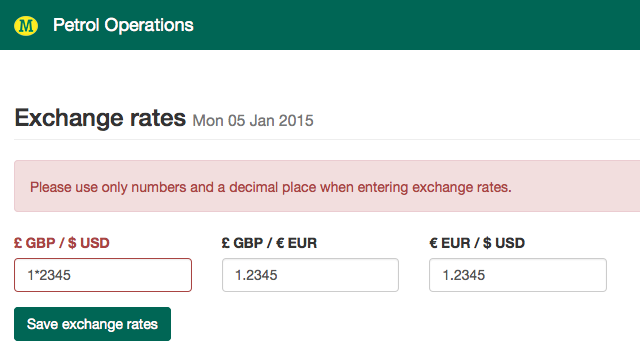
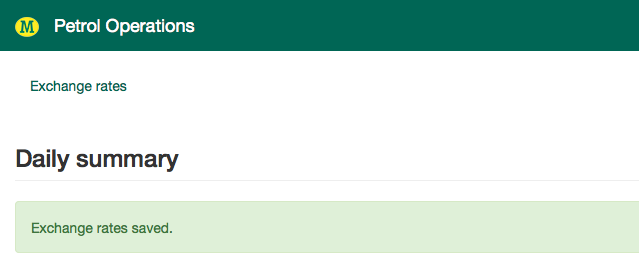
fx edit

diff --git a/market-daily-historic.html b/market-daily-historic.html
@@ -27,10 +27,6 @@
 				<img alt="Morrisons logo" src="morrisonslogo.png" class="navbar-logo"> 
 				Petrol Operations</a>
 	        </div>
-
-				<ul class="nav navbar-nav navbar-left">
-					<li class="active"><a href="market-daily.html">Market data</a></li>
-					</ul>
 				  <ul class="nav navbar-nav navbar-right">
 					<li><a href="">Sign out</a></li>
 					</ul>	
@@ -41,8 +37,9 @@
 			<div class="row">
 				<div class="col-xs-12">
 					<ul class="nav nav-pills" role="tablist">
-						<li><a href="market-daily.html">Daily summary</a></li>
-						<li><a href="market-weekly.html">Weekly summary</a></li>
+						<li><a href="fx-daily.html">Exchange rates</a></li>
+						<li><a href="prices-daily.html">Fuel prices</a></li>
+						<li class="active"><a href="">Daily summary</a></li>
 					</ul>
 				</div>
 			</div>	
@@ -50,35 +47,27 @@
 		<div class="container-fluid">
 			<div class="row">
 				<div class="col-xs-12">
-					<h3 class="page-header">Daily summary for week ending Sun 04 Jan 2015</h3>					
+					<h3 class="page-header">Daily summary <small>week ending 11/01/15</small></h3>
 					<table class="table table-hover table-condensed">
-					  <thead><tr><th></th><th>MON 05</th><th>TUE 06</th><th>WED 07</th><th>THU 08</th><th>FRI 09</th><th>Week</th></tr></thead>
+					  <thead><tr><th></th><th>MON 05</th><th>TUE 06</th><th>WED 07</th><th>THU 08</th><th>FRI 09</th><th>11/01/15</th></tr></thead>
 						<tbody>
-							<tr><th>&dollar;/&pound;</th><td>0.61919</td><td>0.61919</td><td>0.61919</td><td>0.61919</td><td>0.61919</td><td>0.61919</td></tr>
-							<tr><th>&euro;/&dollar;</th><td>1.27635</td><td>1.27635</td><td>1.27635</td><td>1.27635</td><td>1.27635</td><td>1.27635</td></tr>
-							<tr><th>&euro;/&pound;</th><td>0.79030</td><td>0.79030</td><td>0.79030</td><td>0.79030</td><td>0.79030</td><td>0.79030</td></tr>
+							<tr><th>&pound; GBP / &dollar; USD</th><td>1.2345</td><td>1.2345</td><td>1.2345</td><td>1.2345</td><td>1.2345</td><td>1.2345</td></tr>
+							<tr><th>&pound; GBP / &euro; EUR</th><td>1.2345</td><td>1.2345</td><td>1.2345</td><td>1.2345</td><td>1.2345</td><td>1.2345</td></tr>
+							<tr><th>&euro; EUR / &dollar; USD</th><td>1.2345</td><td>1.2345</td><td>1.2345</td><td>1.2345</td><td>1.2345</td><td>1.2345</td></tr>
 
 							<tr><td></td><td><button class="btn btn-default btn-sm">Edit</button></td><td><button class="btn btn-default btn-sm">Edit</button></td><td><button class="btn btn-default btn-sm">Edit</button></td><td><button class="btn btn-default btn-sm">Edit</button></td><td><button class="btn btn-default btn-sm">Edit</button></td><td><button class="btn btn-default btn-sm">Edit</button></td></tr>
 
-							<tr><th rowspan="3">Prem Unl</th><td>100.23</td><td>100.23</td><td>100.23</td><td>100.23</td><td>100.23</td><td>100.23</td></tr>
-							<tr class="text-primary"><td>100.23</td><td>100.23</td><td>100.23</td><td>100.23</td><td>100.23</td><td>100.23</td></tr>
-							<tr><td>100.23</td><td>100.23</td><td>100.23</td><td>100.23</td><td>100.23</td><td>100.23</td></tr>						
-							<tr><th rowspan="3">ULSD</th><td>100.23</td><td>100.23</td><td>100.23</td><td>100.23</td><td>100.23</td><td>100.23</td></tr>
-							<tr class="text-primary"><td>100.23</td><td>100.23</td><td>100.23</td><td>100.23</td><td>100.23</td><td>100.23</td></tr>
-							<tr><td>100.23</td><td>100.23</td><td>100.23</td><td>100.23</td><td>100.23</td><td>100.23</td></tr>						
-							<tr><th rowspan="3">RED Bio-Diesel</th><td>100.23</td><td>100.23</td><td>100.23</td><td>100.23</td><td>100.23</td><td>100.23</td></tr>
-							<tr class="text-primary"><td>100.23</td><td>100.23</td><td>100.23</td><td>100.23</td><td>100.23</td><td>100.23</td></tr>
-							<tr><td>100.23</td><td>100.23</td><td>100.23</td><td>100.23</td><td>100.23</td><td>100.23</td></tr>
-							<tr><th rowspan="3">Bio-Diesel</th><td>100.23</td><td>100.23</td><td>100.23</td><td>100.23</td><td>100.23</td><td>100.23</td></tr>
-							<tr class="text-primary"><td>100.23</td><td>100.23</td><td>100.23</td><td>100.23</td><td>100.23</td><td>100.23</td></tr>
-							<tr><td>100.23</td><td>100.23</td><td>100.23</td><td>100.23</td><td>100.23</td><td>100.23</td></tr>							
-							<tr><th rowspan="3">T2 (Ethylene)</th><td>100.23</td><td>100.23</td><td>100.23</td><td>100.23</td><td>100.23</td><td>100.23</td></tr>
-							<tr class="text-primary"><td>100.23</td><td>100.23</td><td>100.23</td><td>100.23</td><td>100.23</td><td>100.23</td></tr>
-							<tr><td>100.23</td><td>100.23</td><td>100.23</td><td>100.23</td><td>100.23</td><td>100.23</td></tr>							
+							<tr><th>Unleaded</th><td>100.23</td><td class="text-danger">100.23</td><td>100.23</td><td>100.23</td><td>100.23</td><td>100.23</td></tr>
+							<tr><th>Diesel</th><td>100.23</td><td class="text-danger">100.23</td><td>100.23</td><td>100.23</td><td>100.23</td><td>100.23</td></tr>
+							<tr><th>Ethanol</th><td>100.23</td><td class="text-danger">100.23</td><td>100.23</td><td>100.23</td><td>100.23</td><td>100.23</td></tr>
+							<tr><th>Red bio-diesel</th><td>100.23</td><td class="text-danger">100.23</td><td>100.23</td><td>100.23</td><td>100.23</td><td>100.23</td></tr>
+							<tr><th>Bio-diesel</th><td>100.23</td><td class="text-danger">100.23</td><td>100.23</td><td>100.23</td><td>100.23</td><td>100.23</td></tr>
+							<tr><th>LPG</th><td>100.23</td><td class="text-danger">100.23</td><td>100.23</td><td>100.23</td><td>100.23</td><td>100.23</td></tr>
+							<tr><th>Med unleaded</th><td>100.23</td><td class="text-danger">100.23</td><td>100.23</td><td>100.23</td><td>100.23</td><td>100.23</td></tr>
+							<tr><th>Med diesel</th><td>100.23</td><td class="text-danger">100.23</td><td>100.23</td><td>100.23</td><td>100.23</td><td>100.23</td></tr>
 							<tr><td></td><td><button class="btn btn-default btn-sm">Edit</button></td><td><button class="btn btn-default btn-sm">Edit</button></td><td><button class="btn btn-default btn-sm">Edit</button></td><td><button class="btn btn-default btn-sm">Edit</button></td><td><button class="btn btn-default btn-sm">Edit</button></td><td><button class="btn btn-default btn-sm">Edit</button></td></tr>
 						</tbody>
-					</table>
-					</table>
+					</table>					
 				</div>
 			</div>	
 		</div>

diff --git a/market-daily-fx-edit.html b/market-daily-fx-edit.html
@@ -33,8 +33,9 @@
 			<div class="row">
 				<div class="col-xs-12">
 					<ul class="nav nav-pills">
-						<li><a href="fx-daily.html">Exchange rates</a></li>
-						<li><a href="market-daily-fx-edit.html">Daily summary</a></li>						
+						<li><a href="fx-daily.html">Exchange rates</a></li>	
+						<li class="active"><a href="market-daily-fx-edit.html">Daily summary</a></li>					
+										
 					</ul>
 				</div>
 			</div>	
@@ -42,27 +43,26 @@
 		<div class="container-fluid">
 			<div class="row">
 				<div class="col-xs-12 col-md-12 col-lg-12">
-					<h3 class="page-header">Exchange rates <small>Mon 05 Jan 2015</small></h3>
-					<form role="form">
-						<div class="row">
-						  <div class="form-group form-group-sm col-xs-4 col-sm-2">
-							<label class="control-label">&pound; GBP / &dollar; USD</label>
-						    <input type="text" class="form-control" value="1.2345" maxlength="6">				
-						  </div>
-						  <div class="form-group form-group-sm col-xs-4 col-sm-2">
-							<label class="control-label">&pound; GBP / &euro; EUR</label>
-						    <input type="text" class="form-control" value="1.2345">					
-						  </div>
-						  <div class="form-group form-group-sm col-xs-4 col-sm-2">
-							<label class="control-label">&euro; EUR / &dollar; USD</label>
-						    <input type="text" class="form-control" value="1.2345" maxlength="6">				
-						  </div>
-					  </div>
-					  <a class="btn btn-primary" href="market-daily-fx-added.html">Save exchange rates</a>
-					</form>													
+					<h3 class="page-header">Daily summary <small>week ending 11/01/15</small></h3>
+					<table class="table table-hover table-condensed">
+					  <thead><tr><th></th><th>MON 05</th><th>TUE 06</th><th>WED 07</th><th>THU 08</th><th>FRI 09</th><th>11/01/15</th></tr></thead>
+						<tbody>
+							<tr><th>&pound; GBP / &dollar; USD</th><td>1.2345</td><td>&mdash;</td><td>&mdash;</td><td>&mdash;</td><td>&mdash;</td><td>&mdash;</td></tr>
+							<tr><th>&pound; GBP / &euro; EUR</th><td>1.2345</td><td>&mdash;</td><td>&mdash;</td><td>&mdash;</td><td>&mdash;</td><td>&mdash;</td></tr>
+							<tr><th>&euro; EUR / &dollar; USD</th><td>1.2345</td><td>&mdash;</td><td>&mdash;</td><td>&mdash;</td><td>&mdash;</td><td>&mdash;</td></tr>
+							<tr><td></td><td><a href="fx-daily-added.html"class="btn btn-default btn-sm">Edit</a></td><td>&mdash;</td><td>&mdash;</td><td>&mdash;</td><td>&mdash;</td><td>&mdash;</td></tr>
+						</tbody>
+					</table>
 				</div>
 			</div>	
 		</div>
-				
+
+
+    <!-- Bootstrap core JavaScript
+    ================================================== -->
+    <!-- Placed at the end of the document so the pages load faster -->
+    <script src="https://ajax.googleapis.com/ajax/libs/jquery/1.11.1/jquery.min.js"></script>
+    <script src="bootstrap-3.2.0-dist/js/bootstrap.min.js"></script>
+    <script src="assets/js/docs.min.js"></script>
   </body>
 </html>

diff --git a/market-weekly-buttons.html b/market-weekly-buttons.html
@@ -53,7 +53,11 @@
 					<h3 class="page-header">Weekly summary</h3>
 					<div class="table-responsive">
 					<table class="table table-hover table-condensed">
-					  <thead><tr><th></th><th><a href="" class="btn btn-default"><span class="glyphicon glyphicon-chevron-left"></span></a></th><th>16/11/14</th><th>23/11/14</th><th>30/11/14</th><th>14/12/14</th><th>14/12/14</th><th>21/12/14</th><th>28/12/14</th><th>04/01/15</th><th><a href="" class="btn btn-default btn-sm"><span class="glyphicon glyphicon-chevron-right"></span></a></th></tr>
+						<colgroup>
+						<col>
+						<col span="10">
+						</colgroup>
+					  <thead><tr><th class="col-xs-2"></th><th><a href="" class="btn btn-default"><span class="glyphicon glyphicon-chevron-left"></span></a></th><th><a href="" class="btn btn-default"><strong>16/11/14</strong></a></th><th><a href="" class="btn btn-default"><strong>23/11/14</strong></a></th><th><a href="" class="btn btn-default"><strong>30/11/14</strong></a></th><th><a href="" class="btn btn-default"><strong>14/12/14</strong></a></th><th><a href="" class="btn btn-default"><strong>14/12/14</strong></a></th><th><a href="" class="btn btn-default"><strong>21/12/14</strong></a></th><th><a href="" class="btn btn-default"><strong>28/12/14</strong></a></th><th><a href="" class="btn btn-default"><strong>04/01/15</strong></a></th><th><a href="" class="btn btn-default"><span class="glyphicon glyphicon-chevron-right"></span></a></th></tr>
 						</thead>
 						<tbody>
 							<tr><th>&pound; GBP / &dollar; USD</th><td></td><td>1.2345</td><td>1.2345</td><td>1.2345</td><td>1.2345</td><td>1.2345</td><td>1.2345</td><td>1.2345</td><td>1.2345</td><td></td></tr>
@@ -67,7 +71,6 @@
 							<tr><th>LPG</th><td></td><td>100.23</td><td class="text-danger">100.23</td><td>100.23</td><td>100.23</td><td>100.23</td><td>100.23</td><td>100.23</td><td>100.23</td><td></td></tr>
 							<tr><th>Med unleaded</th><td></td><td>100.23</td><td class="text-danger">100.23</td><td>100.23</td><td>100.23</td><td>100.23</td><td>100.23</td><td>100.23</td><td>100.23</td><td></td></tr>
 							<tr><th>Med diesel</th><td></td><td>100.23</td><td class="text-danger">100.23</td><td>100.23</td><td>100.23</td><td>100.23</td><td>100.23</td><td>100.23</td><td>100.23</td><td></td></tr>							
-							<tr><td></td><td></td><td><button class="btn btn-default btn-sm">View</button></td><td><button class="btn btn-default btn-sm">View</button></td><td><button class="btn btn-default btn-sm">View</button></td><td><button class="btn btn-default btn-sm">View</button></td><td><button class="btn btn-default btn-sm">View</button></td><td><button class="btn btn-default btn-sm">View</button></td><td><button class="btn btn-default btn-sm">View</button></td><td><button class="btn btn-default btn-sm">View</button></td><td></td></tr>
 						</tbody>
 					</table>	
 					</div>				

diff --git a/market-weekly-links.html b/market-weekly-links.html
@@ -53,7 +53,11 @@
 					<h3 class="page-header">Weekly summary</h3>
 					<div class="table-responsive">
 					<table class="table table-hover table-condensed">
-					  <thead><tr><th></th><th><a href="" class="btn btn-default"><span class="glyphicon glyphicon-chevron-left"></span></a></th><th>16/11/14</th><th>23/11/14</th><th>30/11/14</th><th>14/12/14</th><th>14/12/14</th><th>21/12/14</th><th>28/12/14</th><th>04/01/15</th><th><a href="" class="btn btn-default btn-sm"><span class="glyphicon glyphicon-chevron-right"></span></a></th></tr>
+						<colgroup>
+						<col>
+						<col span="10">
+						</colgroup>
+					  <thead><tr><th class="col-xs-2"></th><th><a href="" class="btn btn-default"><span class="glyphicon glyphicon-chevron-left"></span></a></th><th><a href="">16/11/14</a></th><th><a href="">23/11/14</a></th><th><a href="">30/11/14</a></th><th><a href="">14/12/14</a></th><th><a href="">14/12/14</a></th><th><a href="">21/12/14</a></th><th><a href="">28/12/14</a></th><th><a href="">04/01/15</a></th><th><a href="" class="btn btn-default"><span class="glyphicon glyphicon-chevron-right"></span></a></th></tr>
 						</thead>
 						<tbody>
 							<tr><th>&pound; GBP / &dollar; USD</th><td></td><td>1.2345</td><td>1.2345</td><td>1.2345</td><td>1.2345</td><td>1.2345</td><td>1.2345</td><td>1.2345</td><td>1.2345</td><td></td></tr>
@@ -67,7 +71,6 @@
 							<tr><th>LPG</th><td></td><td>100.23</td><td class="text-danger">100.23</td><td>100.23</td><td>100.23</td><td>100.23</td><td>100.23</td><td>100.23</td><td>100.23</td><td></td></tr>
 							<tr><th>Med unleaded</th><td></td><td>100.23</td><td class="text-danger">100.23</td><td>100.23</td><td>100.23</td><td>100.23</td><td>100.23</td><td>100.23</td><td>100.23</td><td></td></tr>
 							<tr><th>Med diesel</th><td></td><td>100.23</td><td class="text-danger">100.23</td><td>100.23</td><td>100.23</td><td>100.23</td><td>100.23</td><td>100.23</td><td>100.23</td><td></td></tr>							
-							<tr><td></td><td></td><td><button class="btn btn-default btn-sm">View</button></td><td><button class="btn btn-default btn-sm">View</button></td><td><button class="btn btn-default btn-sm">View</button></td><td><button class="btn btn-default btn-sm">View</button></td><td><button class="btn btn-default btn-sm">View</button></td><td><button class="btn btn-default btn-sm">View</button></td><td><button class="btn btn-default btn-sm">View</button></td><td><button class="btn btn-default btn-sm">View</button></td><td></td></tr>
 						</tbody>
 					</table>	
 					</div>				

diff --git a/market-home-prices.html b/market-home-prices.html
@@ -33,36 +33,18 @@
 			<div class="row">
 				<div class="col-xs-12">
 					<ul class="nav nav-pills">
-						<li><a href="fx-daily.html">Exchange rates</a></li>
-						<li><a href="market-daily-fx-edit.html">Daily summary</a></li>						
+						<li><a href="fx-daily.html">Exchange rates</a></li>	
+						<li><a href="prices-daily.html">Fuel prices</a></li>									
 					</ul>
 				</div>
 			</div>	
 		</div>
-		<div class="container-fluid">
-			<div class="row">
-				<div class="col-xs-12 col-md-12 col-lg-12">
-					<h3 class="page-header">Exchange rates <small>Mon 05 Jan 2015</small></h3>
-					<form role="form">
-						<div class="row">
-						  <div class="form-group form-group-sm col-xs-4 col-sm-2">
-							<label class="control-label">&pound; GBP / &dollar; USD</label>
-						    <input type="text" class="form-control" value="1.2345" maxlength="6">				
-						  </div>
-						  <div class="form-group form-group-sm col-xs-4 col-sm-2">
-							<label class="control-label">&pound; GBP / &euro; EUR</label>
-						    <input type="text" class="form-control" value="1.2345">					
-						  </div>
-						  <div class="form-group form-group-sm col-xs-4 col-sm-2">
-							<label class="control-label">&euro; EUR / &dollar; USD</label>
-						    <input type="text" class="form-control" value="1.2345" maxlength="6">				
-						  </div>
-					  </div>
-					  <a class="btn btn-primary" href="market-daily-fx-added.html">Save exchange rates</a>
-					</form>													
-				</div>
-			</div>	
-		</div>
-				
+
+    <!-- Bootstrap core JavaScript
+    ================================================== -->
+    <!-- Placed at the end of the document so the pages load faster -->
+    <script src="https://ajax.googleapis.com/ajax/libs/jquery/1.11.1/jquery.min.js"></script>
+    <script src="bootstrap-3.2.0-dist/js/bootstrap.min.js"></script>
+    <script src="assets/js/docs.min.js"></script>
   </body>
 </html>

diff --git a/market-daily-fx-updated.html b/market-daily-fx-updated.html
@@ -33,8 +33,9 @@
 			<div class="row">
 				<div class="col-xs-12">
 					<ul class="nav nav-pills">
-						<li><a href="fx-daily.html">Exchange rates</a></li>
-						<li><a href="prices-daily.html">Fuel prices</a></li>
+						<li><a href="fx-daily.html">Exchange rates</a></li>	
+						<li class="active"><a href="market-daily-fx-edit.html">Daily summary</a></li>					
+										
 					</ul>
 				</div>
 			</div>	
@@ -42,8 +43,18 @@
 		<div class="container-fluid">
 			<div class="row">
 				<div class="col-xs-12 col-md-12 col-lg-12">
-					<h3 class="page-header">Daily summary</h3>
-					<div class="alert alert-success"><p>Fuel prices saved.</p></div>
+					<h3 class="page-header">Daily summary <small>week ending 11/01/15</small></h3>
+					<div class="alert alert-success"><p>Exchange rates saved.</p></div>
+					
+					<table class="table table-hover table-condensed">
+					  <thead><tr><th></th><th>MON 05</th><th>TUE 06</th><th>WED 07</th><th>THU 08</th><th>FRI 09</th><th>11/01/15</th></tr></thead>
+						<tbody>
+							<tr><th>&pound; GBP / &dollar; USD</th><td>1.2345</td><td>&mdash;</td><td>&mdash;</td><td>&mdash;</td><td>&mdash;</td><td>&mdash;</td></tr>
+							<tr><th>&pound; GBP / &euro; EUR</th><td>1.2345</td><td>&mdash;</td><td>&mdash;</td><td>&mdash;</td><td>&mdash;</td><td>&mdash;</td></tr>
+							<tr><th>&euro; EUR / &dollar; USD</th><td>1.2345</td><td>&mdash;</td><td>&mdash;</td><td>&mdash;</td><td>&mdash;</td><td>&mdash;</td></tr>
+							<tr><td></td><td><a href="fx-daily-added.html"class="btn btn-default btn-sm">Edit</a></td><td>&mdash;</td><td>&mdash;</td><td>&mdash;</td><td>&mdash;</td><td>&mdash;</td></tr>
+						</tbody>
+					</table>
 				</div>
 			</div>	
 		</div>

diff --git a/prices-daily.html b/prices-daily.html
@@ -35,7 +35,6 @@
 					<ul class="nav nav-pills">
 						<li><a href="fx-daily.html">Exchange rates</a></li>
 						<li class="active"><a href="prices-daily.html">Fuel prices</a></li>
-						<li><a href="market-daily-prices.html">Daily summary</a></li>						
 					</ul>
 				</div>
 			</div>	
